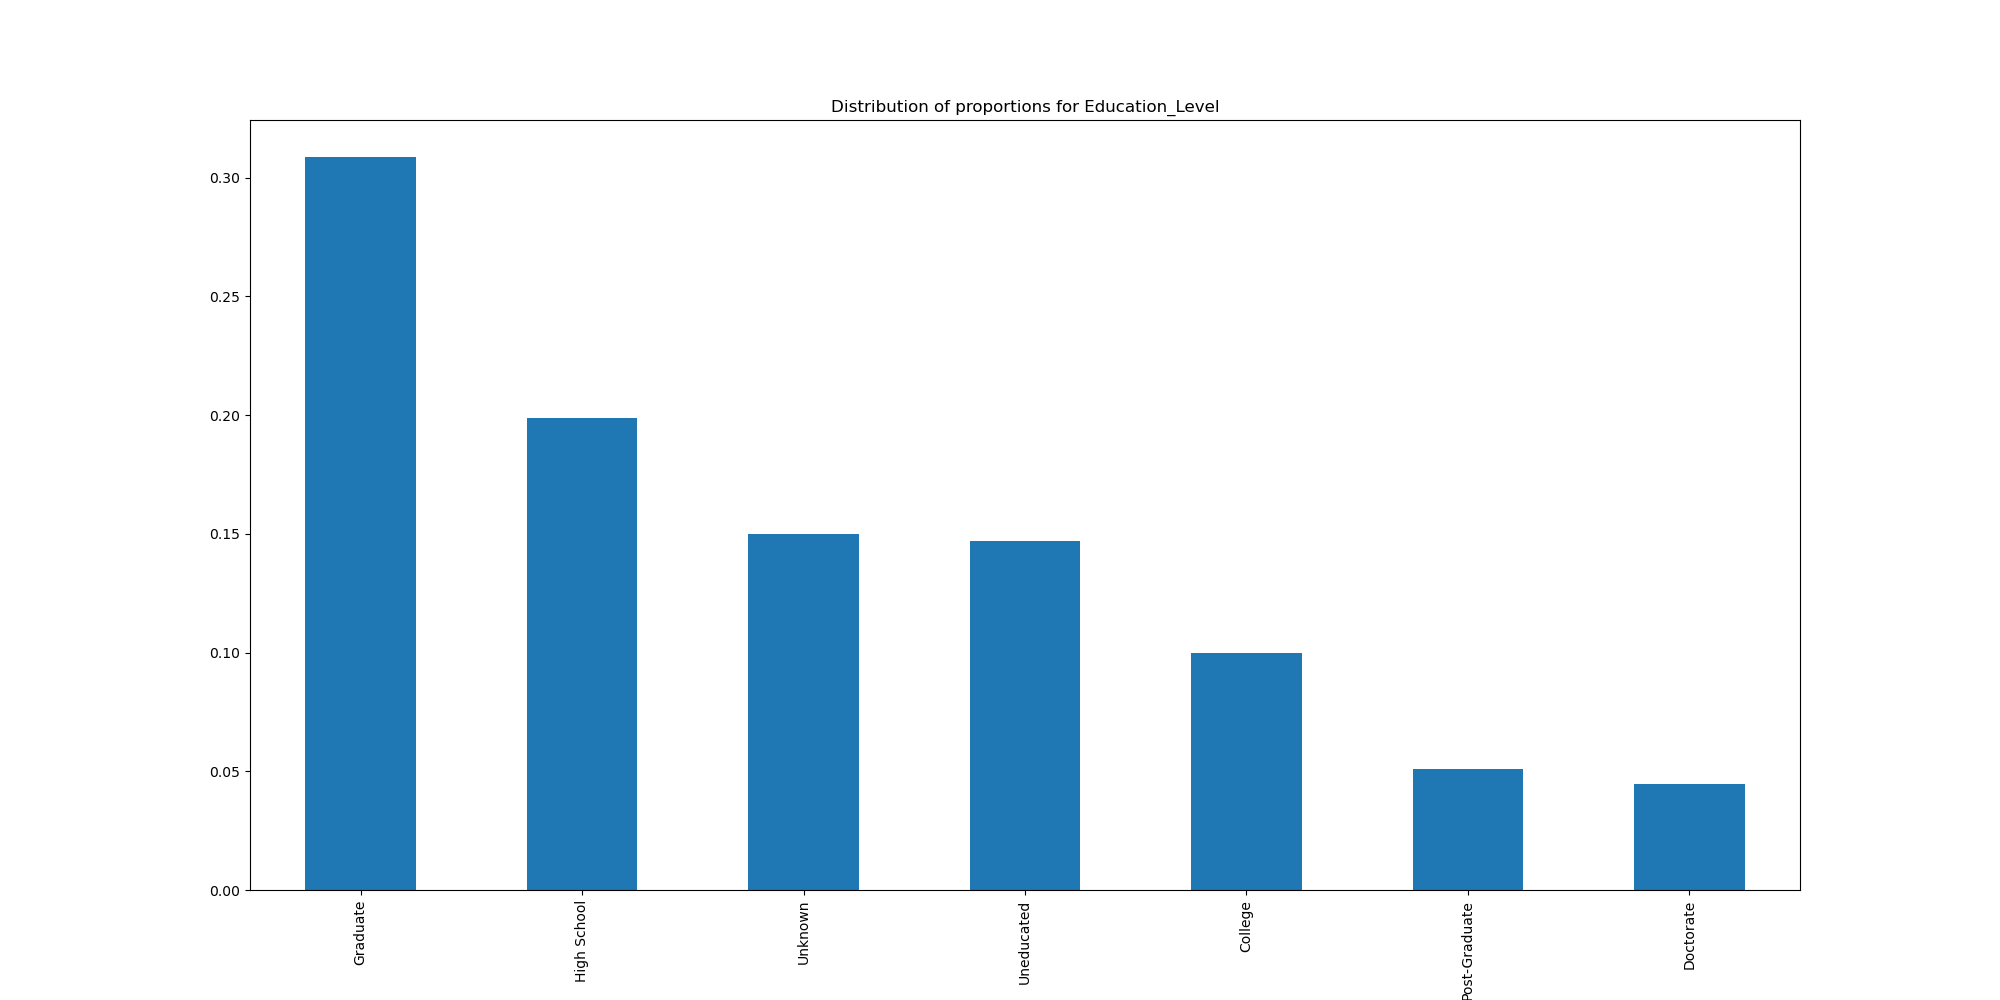
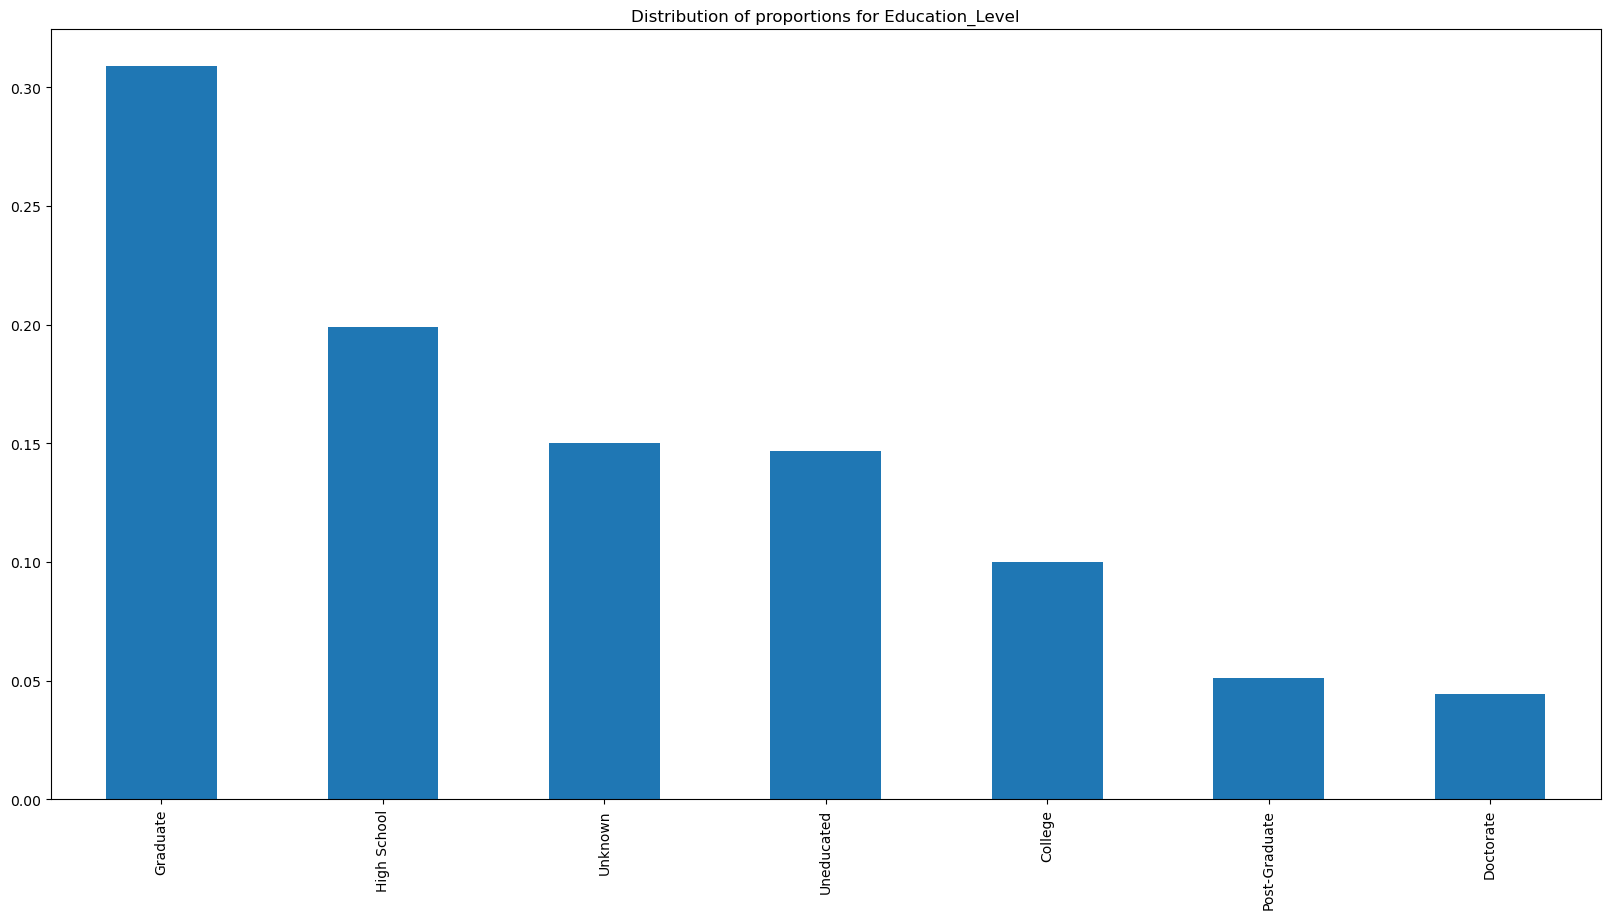
minor update

diff --git a/churn_library.py b/churn_library.py
@@ -95,7 +95,7 @@ class Model():
             plt.figure(figsize=(20, 10))
             sns.histplot(data=self.dataframe, x=quant_column)
             plt.title(f'Histogram for {quant_column}')
-            plt.savefig(f"./images/eda/histograms/{quant_column}.png")
+            plt.savefig(f"./images/eda/histograms/{quant_column}.png", bbox_inches='tight')
             plt.close()
 
         for cat_column in cat_columns:
@@ -103,7 +103,7 @@ class Model():
             self.dataframe[cat_column].value_counts(
                 'normalize').plot(kind='bar')
             plt.title(f'Distribution of proportions for {cat_column}')
-            plt.savefig(f"./images/eda/barplots/{cat_column}.png")
+            plt.savefig(f"./images/eda/barplots/{cat_column}.png", bbox_inches='tight')
             plt.close()
 
         plt.figure(figsize=(20, 10))
@@ -141,29 +141,6 @@ class Model():
         del column_names
 
         return self
-
-    # def clean_columns(self):
-    #     '''
-    #     Helper function to remove column name whitespaces and add underscores
-
-    #     input:
-    #         none
-    #     output:
-    #         none
-    #     '''
-
-    #     column_names = list(self.dataframe.columns)
-
-    #     column_names = [
-    #         column_name.replace(
-    #             ' ', '').replace(
-    #             '-', '_') for column_name in column_names]
-
-    #     self.dataframe.columns = column_names
-
-    #     del column_names
-
-    #     return self
 
     def perform_feature_engineering(self, predictors, response):
         '''
